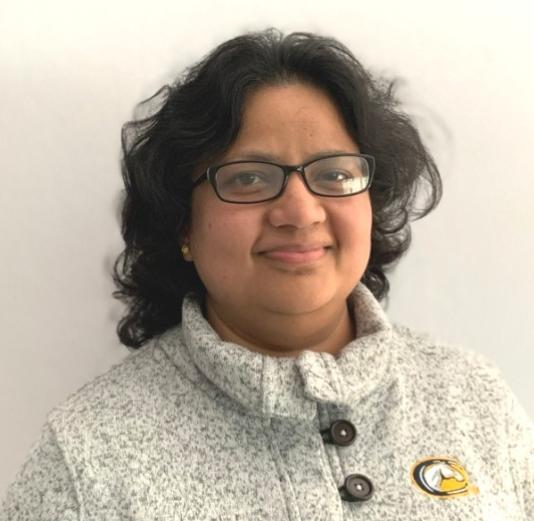
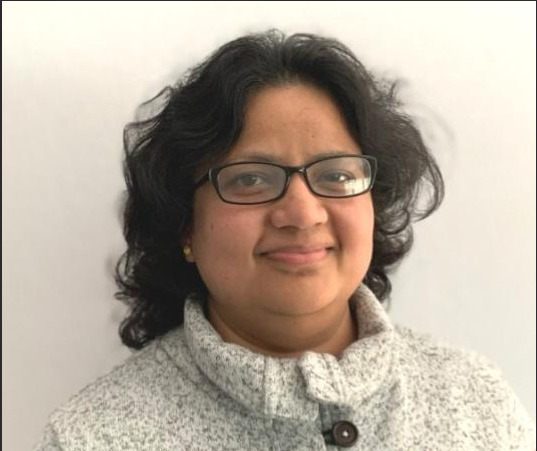
update people page layout

diff --git a/people.html b/people.html
@@ -6,8 +6,7 @@
     <link rel="stylesheet" href="styles.css" />
   </head>
   <body>
-
-        <!-- Navbar -->
+    <!-- Navbar -->
     <header class="topnav">
       <div class="nav-container">
         <ul class="nav-menu">
@@ -20,11 +19,30 @@
       </div>
     </header>
 
-
     <main class="two-column fixed-container">
       <div class="main-wrap">
         <div class="main-box">
           <h1 class="remove-margin-top">Lab Members</h1>
+
+          <!-- Principal Investigator -->
+          <div id="PrincipalInvestigator">
+            <h2 class="project">Principal  Investigator</h2>
+            <div class="people-grid">
+              <div class="person-card">
+                <img
+                  id="alasaad-photo"
+                  class="person-photo"
+                  alt="alasaad180"
+                  src="https://faculty.engineering.ucdavis.edu/al-asaad/wp-content/uploads/sites/104/2013/03/alasaad180.jpg"
+                  width="180"
+                  height="240"
+                />
+
+                <h3>Hussain Al-Asaad</h3>
+                <p>Professor</p>
+              </div>
+            </div>
+          </div>
 
           <!-- PhD Students -->
           <div id="phd">
@@ -35,19 +53,20 @@
                 <h3>Savita Patil</h3>
                 <p>PhD Student</p>
               </div>
+
               <div class="person-card">
-                <img
-                  src="images/Alireza Abolhasani Zeraatkar.png"
-                  alt="Alireza Abolhasani Zeraatkar"
-                  class="person-photo"
-                />
+                <div class="photo-wrapper zoom-photo">
+                  <img
+                    src="images/Alireza Abolhasani Zeraatkar.png"
+                    alt="Alireza Abolhasani Zeraatkar"
+                    class="person-photo"
+                  />
+                </div>
                 <h3>Alireza Abolhasani Zeraatkar</h3>
                 <p>PhD Student</p>
-
-                
               </div>
             </div>
-          </section>
+          </div>
 
           <!-- Master’s Students -->
           <section id="masters">
@@ -60,7 +79,7 @@
               </div>
 
               <div class="person-card">
-                <img src="images/Arunima Saxena.jpeg" alt="Arunima Saxena" class="person-photo" />
+                <img src="images/Arunima Saxena.jpg" alt="Arunima Saxena" class="person-photo" />
                 <h3>Arunima Saxena</h3>
                 <p>MS Student</p>
               </div>
@@ -78,52 +97,26 @@
               </div>
 
               <div class="person-card">
+                <img src="images/Ya Ting Chang.jpeg" alt="Ya Ting Chang" class="person-photo" />
+                <h3>Ya Ting Chang</h3>
+                <p>MS Student</p>
+              </div>
+
+              <div class="person-card">
                 <img src="images/Kilho Chang.jpg" alt="Kilho Chang" class="person-photo" />
                 <h3>Kilho Chang</h3>
                 <p>MS Student</p>
               </div>
 
               <div class="person-card">
-                <img src="images/Ya Ting Chang.jpg" alt="Ya Ting" class="person-photo" />
-                <h3>Ya Ting</h3>
-                <p>MS Student</p>
-              </div>
-
-              <div class="person-card">
                 <img src="images/Zekai Yang.jpg" alt="Zekai Yang" class="person-photo" />
-                <h3>Zekai Yang</h3>
-                <p>MS Student</p>
-              </div>
-
-              <div class="person-card">
-                <img src="images/Adib Guedoir.png" alt="Adib Guedoir" class="person-photo" />
-                <h3>Adib Guedoir</h3>
-                <p>MS Student</p>
-              </div>
-
-              <div class="person-card">
-                <img src="images/Chloe Tain.jpeg" alt="Chloe Lian Tain" class="person-photo" />
-                <h3>Chloe Lian Tain</h3>
-                <p>MS Student</p>
-              </div>
-
-              <div class="person-card">
-                <img
-                  src="images/Sai Srivatsa Suresh.jpeg"
-                  alt="Sai Srivatsa Suresh"
-                  class="person-photo"
-                />
-                <h3>Sai Srivatsa Suresh</h3>
-                <p>MS Student</p>
-              </div>
-
-              <div class="person-card">
                 <h3>Tarek Mah Faisal</h3>
                 <p>MS Student</p>
               </div>
 
               <div class="person-card">
-                <h3>John Doe</h3>
+                <img src="images/Chloe Tain.jpeg" alt="Chloe Lian Tain" class="person-photo" />
+                <h3>Zekai Yang</h3>
                 <p>MS Student</p>
               </div>
             </div>
@@ -150,7 +143,89 @@
                 <h3>John Doe</h3>
                 <p>Undergrad</p>
               </div>
-         
+            </div>
+          </section>
+
+          <!-- Alumni -->
+          <!-- Undergrad Students -->
+          <section id="Alumni">
+            <h2 class="project">Alumni</h2>
+            <div class="people-grid">
+              <div class="person-card">
+                <img src="images/Adib Guedoir.jpg" alt="Adib Guedoir" class="person-photo" />
+                <h3>Adib Guedoir</h3>
+                <p>Graduate Student</p>
+              </div>
+
+              <div class="person-card">
+                <h3>Shihang Hu</h3>
+                <p>Graduate Student</p>
+              </div>
+
+              <div class="person-card">
+                <h3>Alex Jose</h3>
+                <p>Graduate Student</p>
+              </div>
+
+              <div class="person-card">
+                <h3>Chloe Tain</h3>
+                <p>Graduate Student</p>
+              </div>
+
+              <div class="person-card">
+                <h3>Tyler Sun</h3>
+                <p>Graduate Student</p>
+              </div>
+
+              <div class="person-card">
+                <h3>Raihana Yarzada</h3>
+                <p>Graduate Student</p>
+              </div>
+
+              <div class="person-card">
+                <h3>Sai Srivatsa Suresh</h3>
+                <p>Graduate Student</p>
+              </div>
+
+              <div class="person-card">
+                <h3>Avantika Gautam</h3>
+                <p>Graduate Student</p>
+              </div>
+
+              <div class="person-card">
+                <h3>Howard Kao</h3>
+                <p>Graduate Student</p>
+              </div>
+
+              <div class="person-card">
+                <h3>Harichandana Chitturi</h3>
+                <p>Graduate Student</p>
+              </div>
+
+              <div class="person-card">
+                <h3>Yushan Wu</h3>
+                <p>Graduate Student</p>
+              </div>
+
+              <div class="person-card">
+                <h3>Xinyu Han</h3>
+                <p>Graduate Student</p>
+              </div>
+
+              <div class="person-card">
+                <h3>Shegliang Liu</h3>
+                <p>Graduate Student</p>
+              </div>
+
+              <div class="person-card">
+                <h3>Yuhua Pan</h3>
+                <p>Graduate Student</p>
+              </div>
+
+              <div class="person-card">
+                <h3>Monica Reddy Pottipati</h3>
+                <p>Graduate Student</p>
+              </div>
             </div>
           </section>
         </div>

diff --git a/styles.css b/styles.css
@@ -400,8 +400,48 @@ body {
   border-radius: 50% !important;
   object-fit: cover !important;
   object-position: center !important;
-
   border: 1px solid #ccc;
+}
+
+
+.photo-wrapper {
+  width: var(--avatar-size);
+  height: var(--avatar-size);
+  border-radius: 50%;
+  overflow: hidden; 
+  margin: 0 auto 0.6rem;
+  border: 1px solid #ccc;
+}
+
+
+.person-photo {
+  width: 100%;
+  height: 100%;
+  object-fit: cover;
+  object-position: center 40%;
+  transition: transform 0.3s ease;
+}
+
+
+.zoom-photo img {
+  transform: scale(1.25) translateY(-8%);
+  transform-origin: center center;
+}
+
+
+
+
+#alasaad-photo {
+  object-fit: cover !important;
+  object-position: center 0% !important;
+  transition: transform 0.3s ease;
+
+}
+
+.adjust-photo {
+  object-fit: cover !important;
+  object-position: center 1% !important;
+  transition: transform 0.3s ease;
 }
 
 .people-grid {
